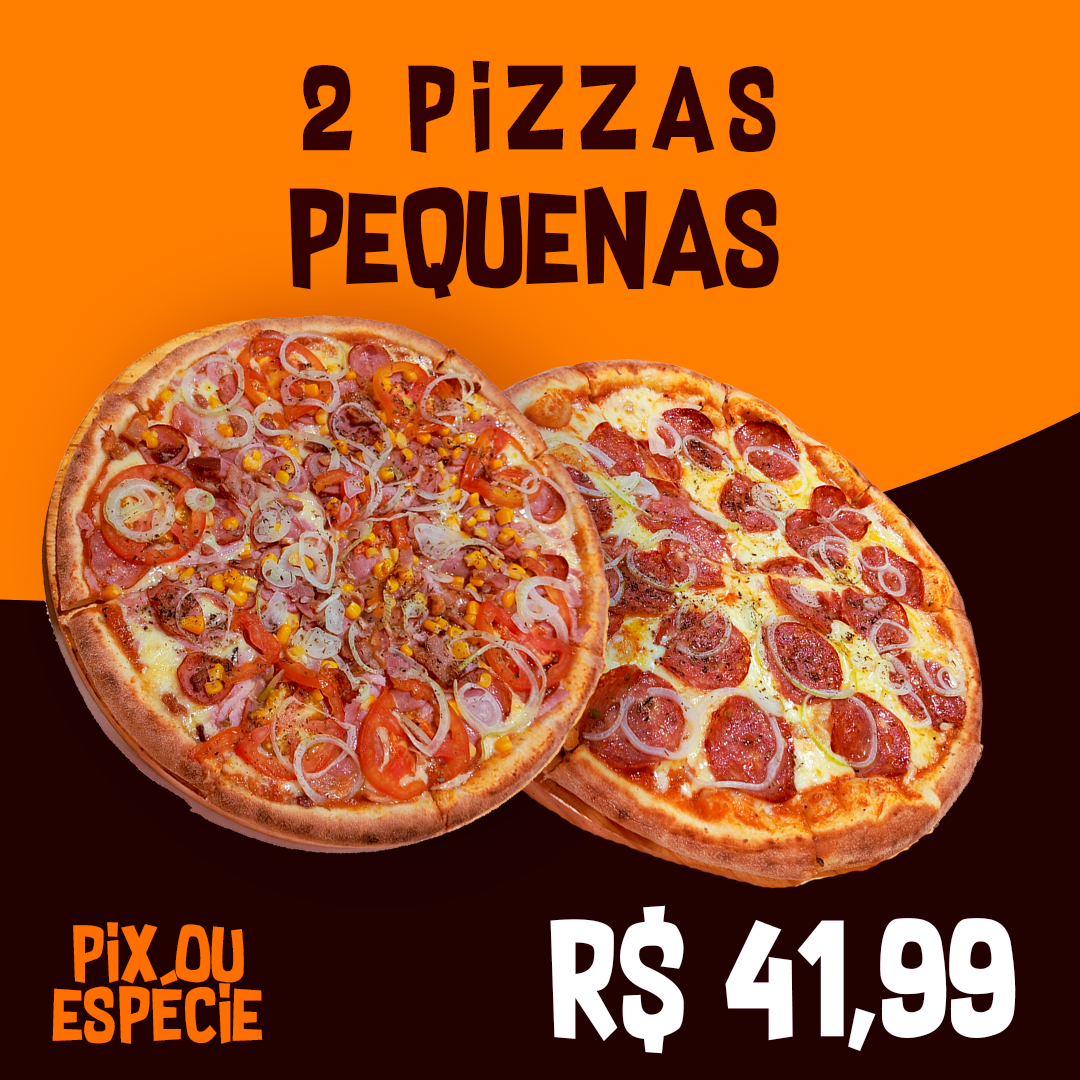
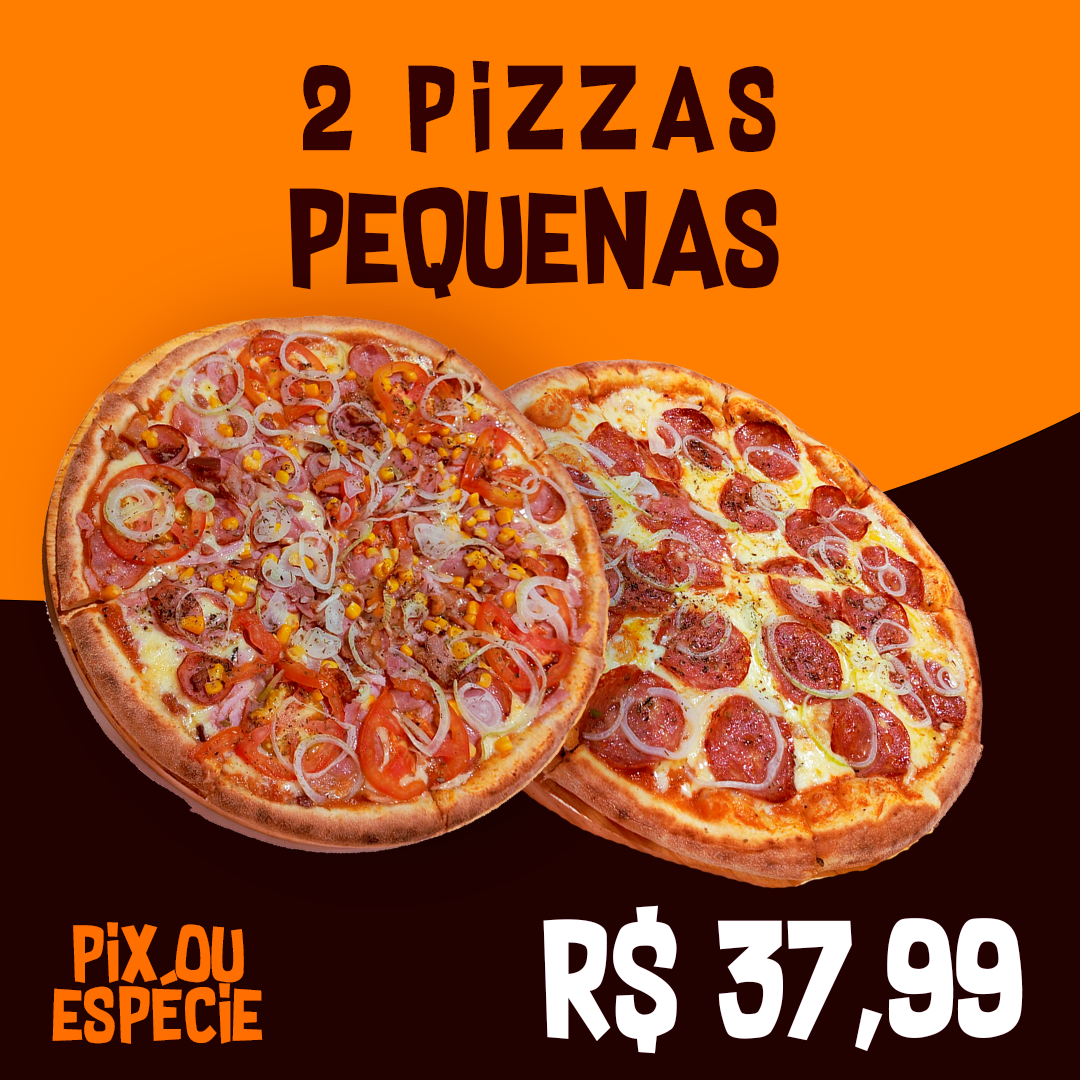
promo p

Changed region(s): [[0.4889, 0.825, 0.9472, 0.9778]]

diff --git a/src/pages/pedido/duas-pequenas/index.tsx b/src/pages/pedido/duas-pequenas/index.tsx
@@ -48,8 +48,8 @@ const Sabores: NextPage = () => {
   const comGoob = comCoca ? false : false; //getDuasRefri60();
 
   const tamanhoId = "656a0b4781f555282573eb48";
-  const valorSaborFixo = comCoca ? 26.5 : comGoob ? 29 : 21; //27.5;
-  const valorPromo = 41.99;
+  const valorSaborFixo = comCoca ? 26.5 : comGoob ? 29 : 19; //27.5;
+  const valorPromo = 37.99;
 
   const [search, setSearch] = useState<string>("");
   const inputRef = createRef<HTMLInputElement>();
